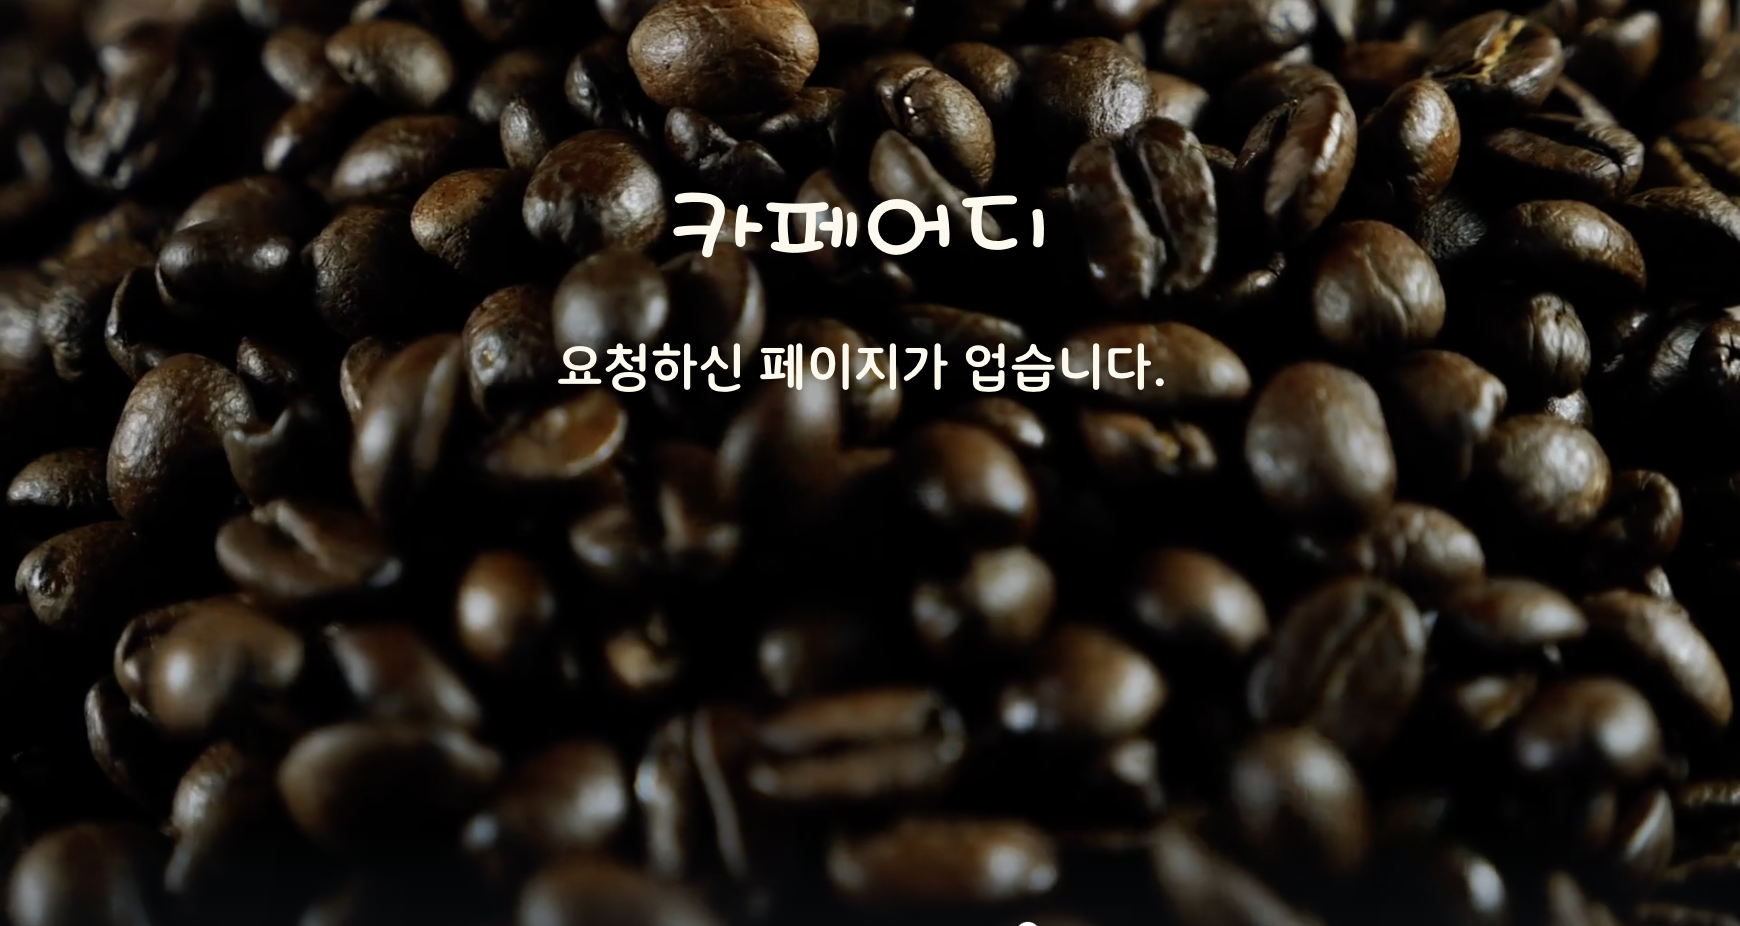
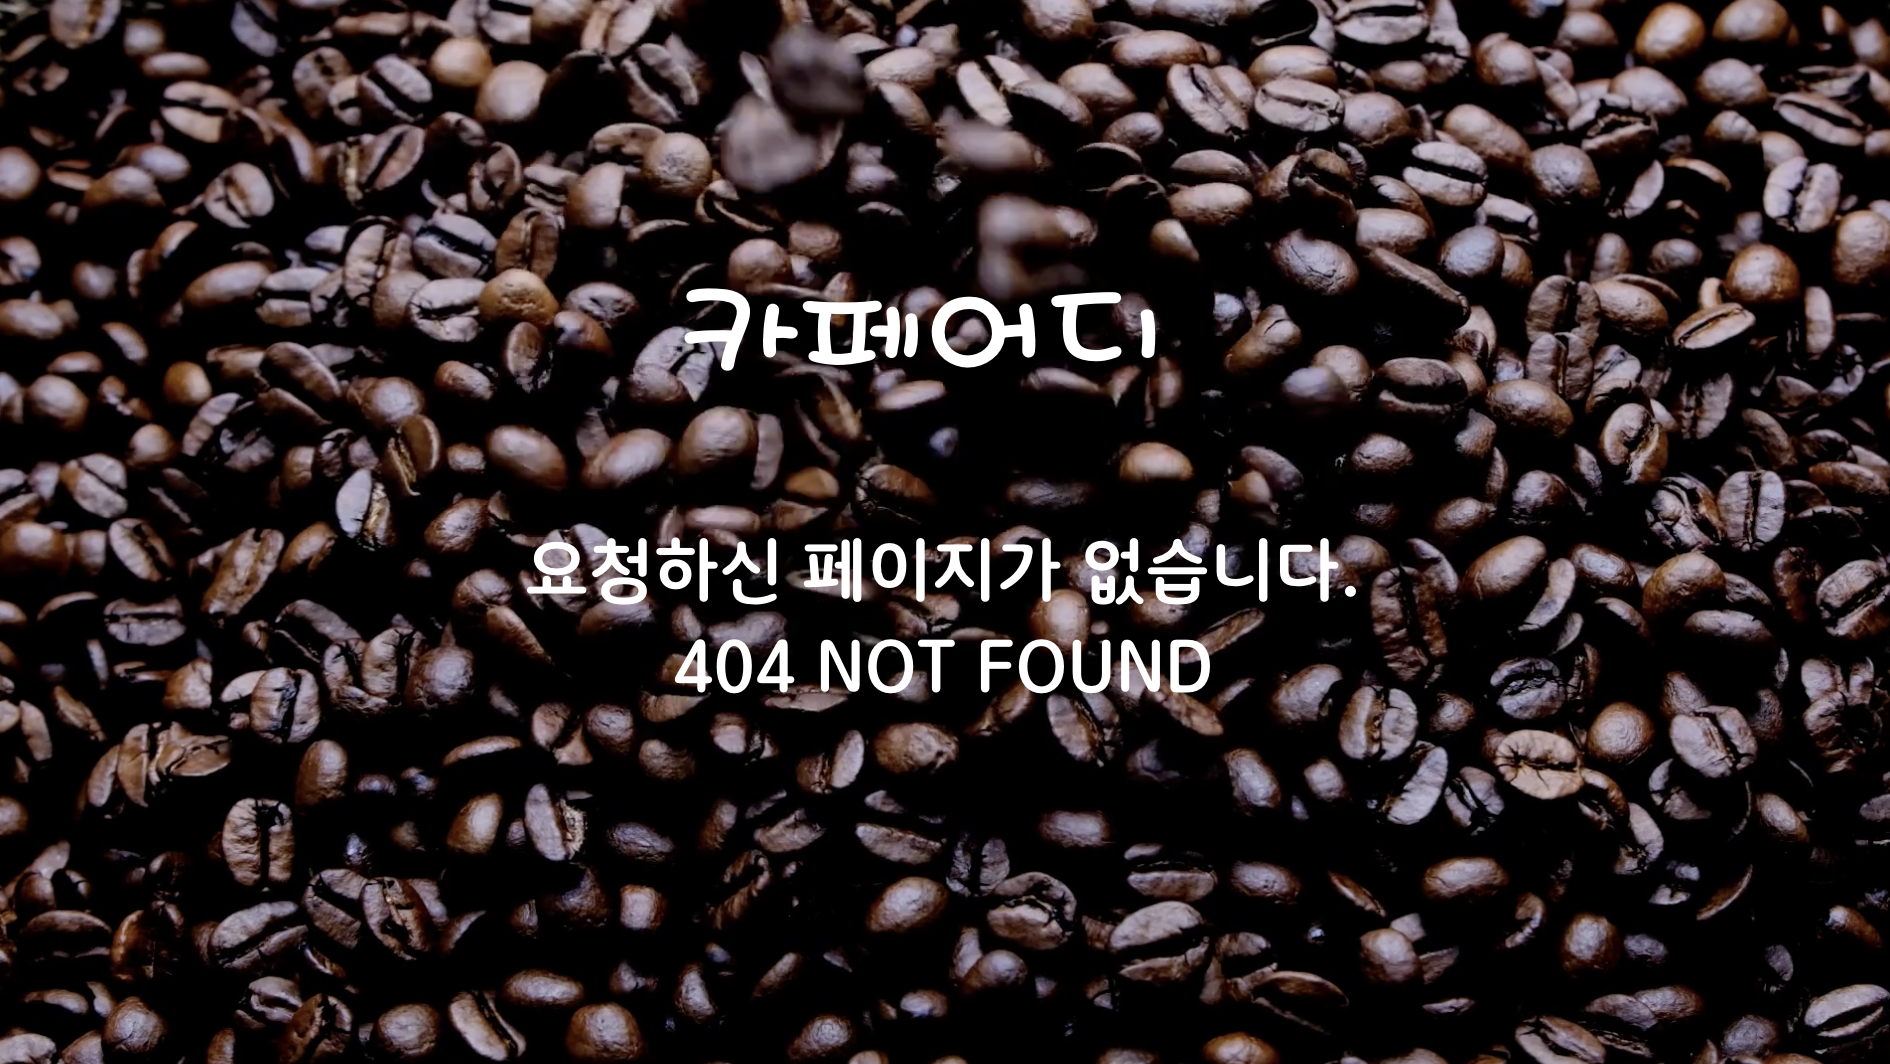
배포연결 테스트

diff --git a/src/components/Nav/IntroduceSidebar.jsx b/src/components/Nav/IntroduceSidebar.jsx
@@ -2,19 +2,33 @@ import { Link } from 'react-router-dom';
 import { styled } from 'styled-components';
 
 const IntroduceSidebar = ({ setIsLeftOpen }) => {
+  const AskEmail = () => {
+    const email = `${process.env.REACT_APP_EMAIL_ADDRESS}`;
+    const title = '문의하기';
+    const body = '이메일 테스트용 메세지';
+    window.location.href = `mailto:${email}?title=${title}&body=${body}`;
+  };
+
   return (
     <BodyBox>
       <SlideBox>
         <CloseBtn onClick={() => setIsLeftOpen(false)}>✕</CloseBtn>
         <Link to="/">
-          <ProjectName onClick={() => setIsLeftOpen(false)}>
+          {/* <ProjectName onClick={() => setIsLeftOpen(false)}>
             카페어디
-          </ProjectName>
+          </ProjectName> */}
+          <LogoBox>
+            <NameImage
+              src="/images/navLogo.png"
+              onClick={() => setIsLeftOpen(false)}
+            />
+          </LogoBox>
         </Link>
         <ProjectImage src="/images/main.png" alt="메인이미지" />
         <IntroduceText>
           서울,인천,경기,부산의 24시로 운영하는 카페를 안내하는 서비스입니다.
         </IntroduceText>
+        <AskBox onClick={AskEmail}>개발자에게 문의하기</AskBox>
       </SlideBox>
     </BodyBox>
   );
@@ -51,6 +65,18 @@ const ProjectName = styled.h1`
   padding: 1.5em 0;
 `;
 
+const LogoBox = styled.div`
+  display: flex;
+  justify-content: center;
+`;
+
+const NameImage = styled.img`
+  width: 18em;
+  height: 5em;
+  margin-top: 1em;
+  margin-bottom: 4em;
+`;
+
 const ProjectImage = styled.img`
   justify-content: center;
   width: 70%;
@@ -63,4 +89,14 @@ const IntroduceText = styled.p`
   padding: 2em 0;
   font-size: 1.2em;
   color: ${props => props.theme.subColor};
+`;
+
+const AskBox = styled.div`
+  font-size: 1.3em;
+  color: white;
+  text-align: center;
+  margin-top: 7em;
+  &:hover {
+    cursor: pointer;
+  }
 `;

diff --git a/src/index.js b/src/index.js
@@ -1,14 +1,14 @@
 import React from 'react';
 import ReactDOM from 'react-dom/client';
+import GlobalStyle from './styles/GlobalStyle';
+import theme from './styles/theme';
 import store from './Store/store';
+import Router from './Router';
 import { persistStore } from 'redux-persist';
 import { Provider } from 'react-redux';
 import { CookiesProvider } from 'react-cookie';
 import { ThemeProvider } from 'styled-components';
 import { PersistGate } from 'redux-persist/integration/react';
-import GlobalStyle from './styles/GlobalStyle';
-import theme from './styles/theme';
-import Router from './Router';
 
 export let persistor = persistStore(store);
 
@@ -26,5 +26,3 @@ root.render(
     </Provider>
   </CookiesProvider>,
 );
-
-//CookiesProvider 와 Provider를 선언하여 Cookie와 Redux를 사용.

diff --git a/src/hooks/useRefreshToken.js b/src/hooks/useRefreshToken.js
@@ -32,7 +32,7 @@ const useRefreshToken = () => {
                 'Content-Type': 'application/json',
                 authorization: `Bearer ${token}`,
               },
-              // credentials: 'include',
+              credentials: 'include',
             },
           );
 

diff --git a/src/styles/GlobalFont.js b/src/styles/GlobalFont.js
@@ -1,7 +1,10 @@
 import { createGlobalStyle } from 'styled-components';
 
 const GlobalFont = createGlobalStyle`
-    
+     body {
+    font-family: sans-serif;
+    line-height: 1.5;
+  }
 `;
 
 export default GlobalFont;

diff --git a/src/components/NotFound/NotFound.jsx b/src/components/NotFound/NotFound.jsx
@@ -33,6 +33,6 @@ const GotoMain = styled.h4`
   text-align: center;
   position: absolute;
   color: white;
-  top: 70%;
+  top: 75%;
   left: 42%;
 `;
